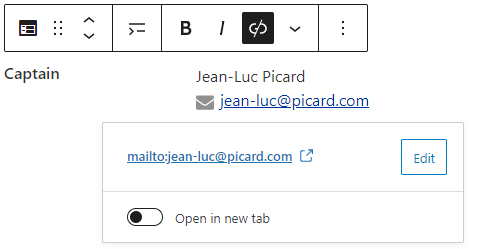
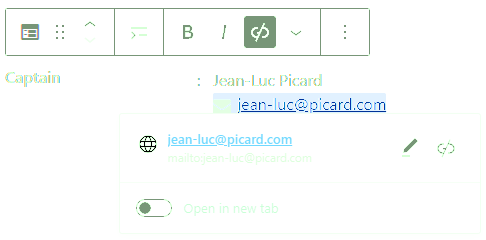
update for change in attr-value block appearance

diff --git a/attribute-value.md b/attribute-value.md
@@ -16,7 +16,7 @@ For correctly formatted email addresses WordPress will automatically add `mailto
 
 ![Attribute/value after link added](assets/img/attr-value-link-added.png)
 
-Once you have filled out the fields the block should look as follows (note the colon is automatically added):
+Once you have filled out the fields the block should look as follows (note: on the live page the colon will be immediately after the attribute):
 
 ![Attribute/value complete](assets/img/attr-value-filled.png)
 
